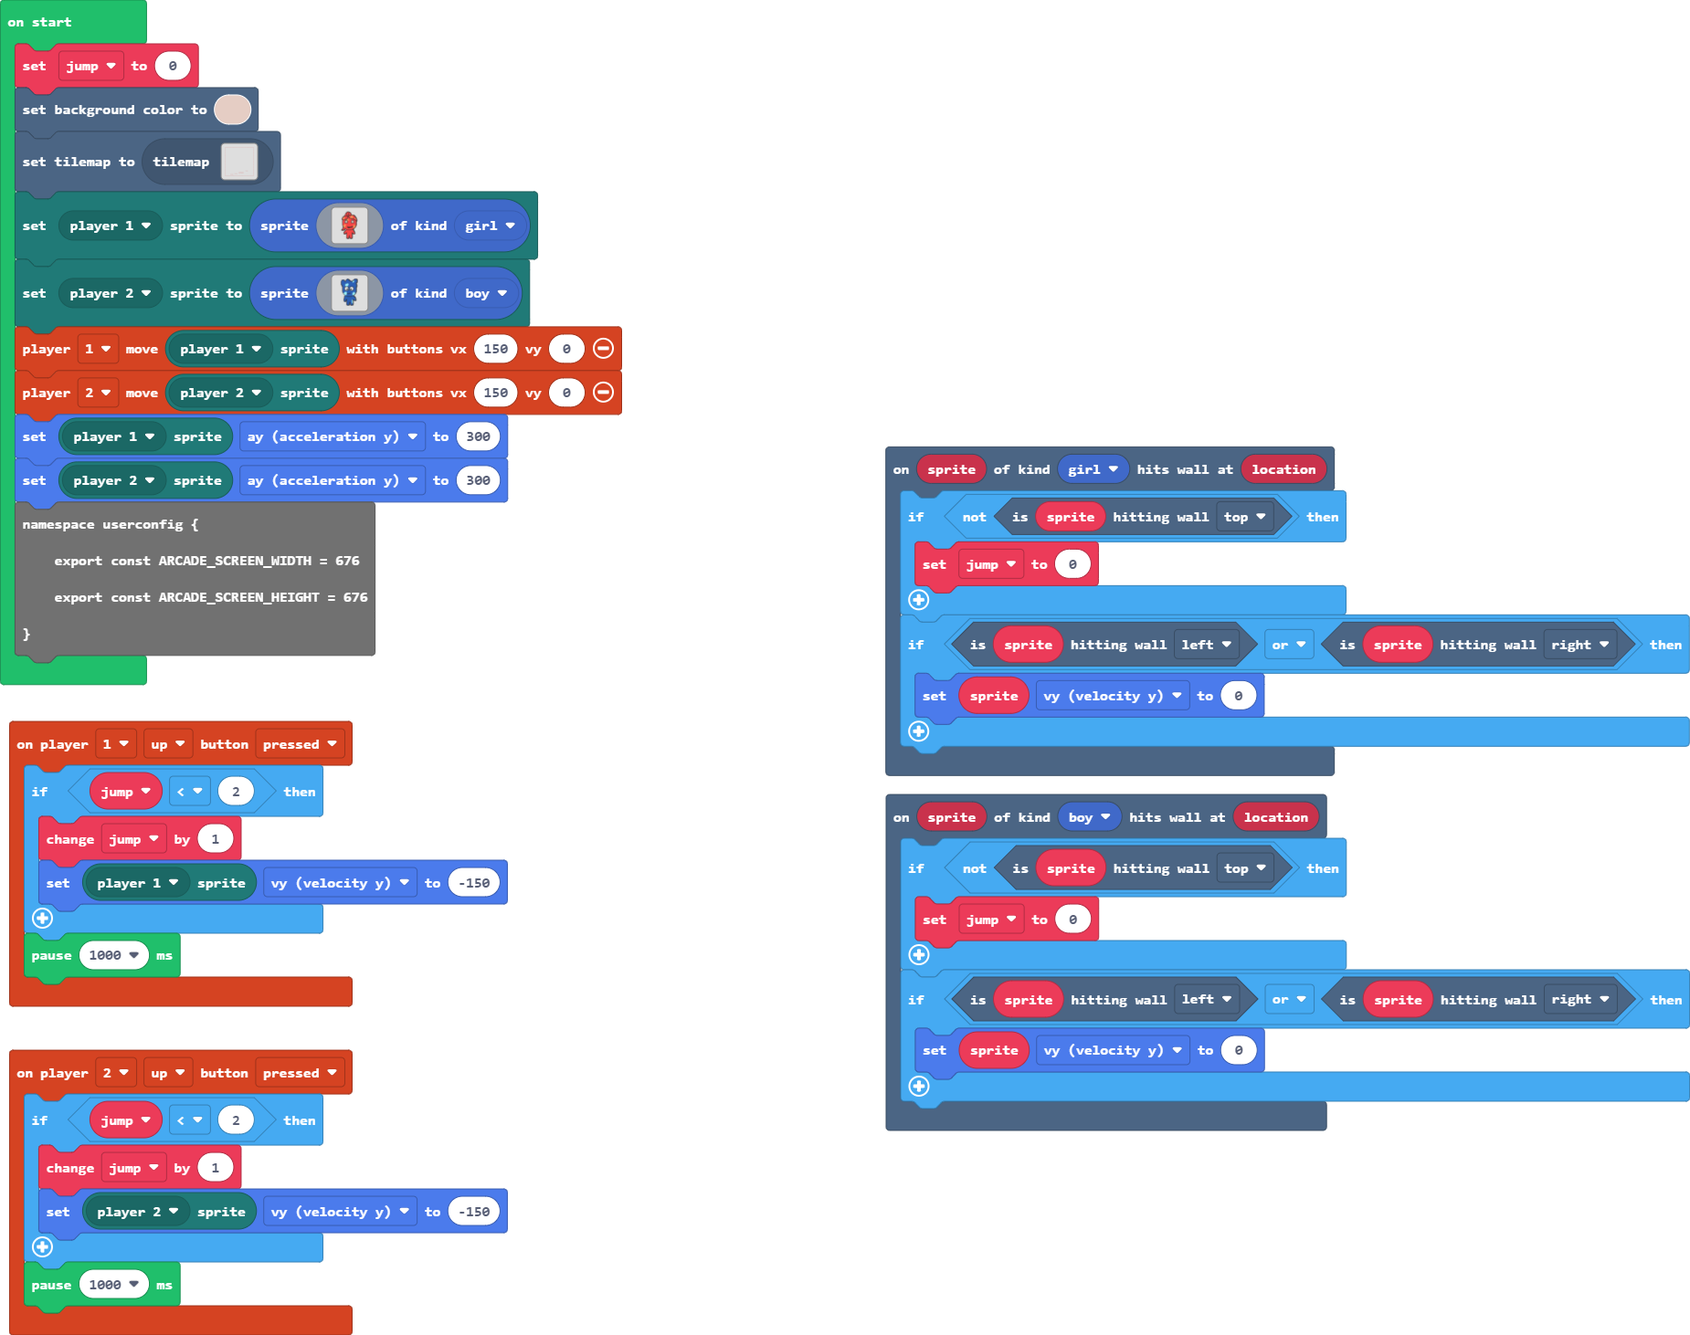
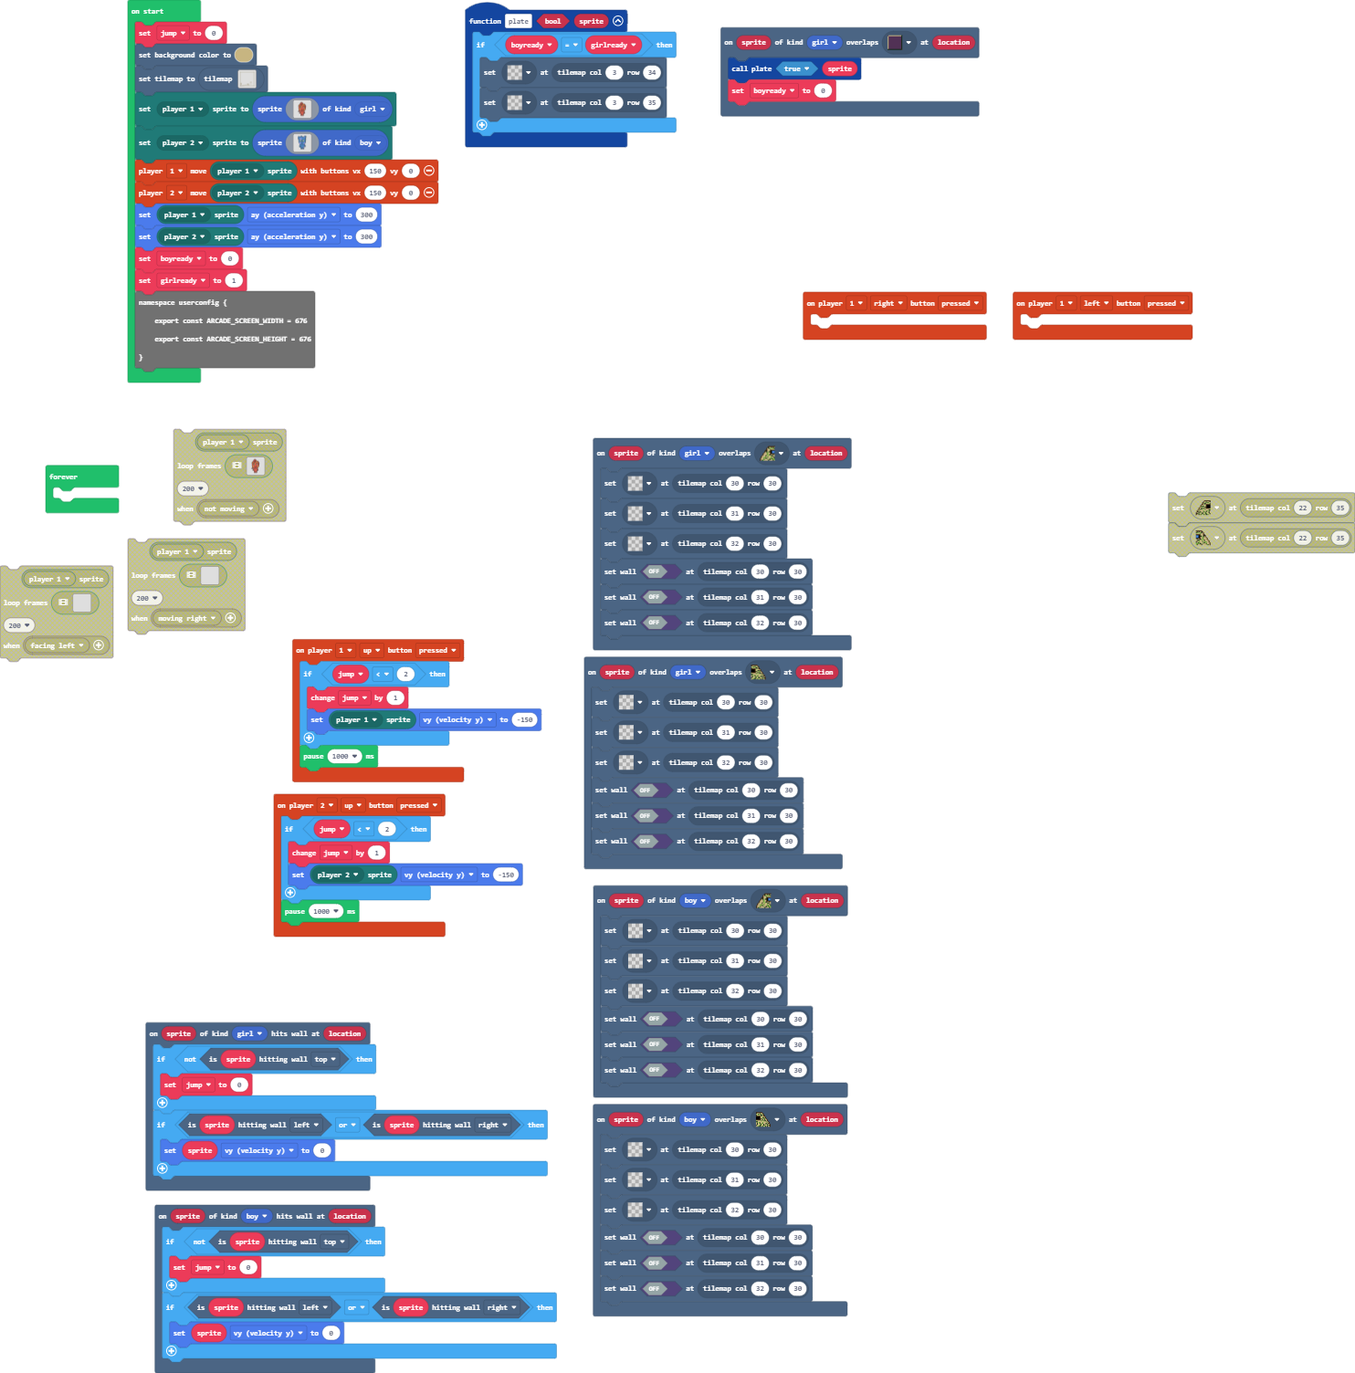
Update pxt.json, main.blocks, main.ts, tilemap.g.jres, tilemap.g.ts

diff --git a/tilemap.g.ts b/tilemap.g.ts
@@ -2,6 +2,16 @@
 namespace myTiles {
     //% fixedInstance jres blockIdentity=images._tile
     export const transparency16 = image.ofBuffer(hex``);
+    //% fixedInstance jres blockIdentity=images._tile
+    export const tile1 = image.ofBuffer(hex``);
+    //% fixedInstance jres blockIdentity=images._tile
+    export const tile6 = image.ofBuffer(hex``);
+    //% fixedInstance jres blockIdentity=images._tile
+    export const tile2 = image.ofBuffer(hex``);
+    //% fixedInstance jres blockIdentity=images._tile
+    export const tile3 = image.ofBuffer(hex``);
+    //% fixedInstance jres blockIdentity=images._tile
+    export const tile4 = image.ofBuffer(hex``);
 
     helpers._registerFactory("tilemap", function(name: string) {
         switch(helpers.stringTrim(name)) {
@@ -24,8 +34,113 @@ namespace myTiles {
 . . . . . . . . . . . . . . . . 
 . . . . . . . . . . . . . . . . 
 `, [myTiles.transparency16], TileScale.Sixteen);
+            case "level4":
+            case "level4":return tiles.createTilemap(hex`1000100000000000000000000000000000000000000000000000000000000000000000000000000000000000000000000000000000000000000000000000000000000000000000000000000000000000000000000000000000000000000000000000000000000000000000000000000000000000000000000000000000000000000000000000000000000000000000000000000000000000000000000000000000000000000000000000000000000000000000000000000000000000000000000000000000000000000000000000000000000000000000000000000000000000000000000000000000000000000000000000000000000000000000000000000000000000`, img`
+. . . . . . . . . . . . . . . . 
+. . . . . . . . . . . . . . . . 
+. . . . . . . . . . . . . . . . 
+. . . . . . . . . . . . . . . . 
+. . . . . . . . . . . . . . . . 
+. . . . . . . . . . . . . . . . 
+. . . . . . . . . . . . . . . . 
+. . . . . . . . . . . . . . . . 
+. . . . . . . . . . . . . . . . 
+. . . . . . . . . . . . . . . . 
+. . . . . . . . . . . . . . . . 
+. . . . . . . . . . . . . . . . 
+. . . . . . . . . . . . . . . . 
+. . . . . . . . . . . . . . . . 
+. . . . . . . . . . . . . . . . 
+. . . . . . . . . . . . . . . . 
+`, [myTiles.transparency16], TileScale.Sixteen);
+            case "level3":
+            case "level3":return tiles.createTilemap(hex`4000400003030303030303030303030303030303030303030303030303030303030303030303030303030303030300000000000000000000000000000000000000000000030000000000000000000000000000000000000000000000000000000000000000000000000000000003000000000000000000000000000000000000000000000300000000000000000000000000000000000000000000000000000000000000000000000000000000030000000000000000000000000000000000000000000003000000000000000000000000000000000000000000000000000000000000000000000000000000000300000000000000000000000000000000000000000000030000000000000000000000000000000000000000000000000000000000000000000000000000000003000000000000000000000000000000000000000000000300000000000000000000000000000000000000000000000000000000000000000000000000000000030000000000000000000000000000000000000000000003000000000000000000000000000000000000000000000000000000000000000000000000000000000300000000000000000000000000000000000000000000030000000000000000000000000000000000000000000000000000000000000000000000000000000003000000000000000000000000000000000000000000000300000000000000000000000000000000000000000000000000000000000000000000000000000000030000000000000000000000000000000000000000000003000000000000000000000000000000000000000000000000000000000000000000000000000000000300000000000000000000000000000000000000000000030000000000000000000000000000000000000000000000000000000000000000000000000000000003000000000000000000000000000000000000000000000300000000000000000000000000000000000000000000000000000000000000000000000000000000030000000000000000000000000000000000000000000003000000000000000000000000000000000000000000000000000000000000000000000000000000000300000000000000000000000000000000000000000000030000000000000000000000000000000000000000000000000000000000000000000000000000000003000000000000000000000000000000000000000000000300000000000000000000000000000000000000000000000000000000000000000000000000000000030000000000000000000000000000000000000000000003000000000000000000000000000000000000000000000000000000000000000000000000000000000300000000000000000000000000000000000000000000030000000000000000000000000000000000000000000000000000000000000000000000000000000003000000000000000000000000000000000000000000000300000000000000000000000000000000000000000000000000000000000000000000000000000000030000000000000000000000000000000000000000000003000000000000000000000000000000000000000000000000000000000000000000000000000000000300000000000000000000000000000000000000000000030000000000000000000000000000000000000000000000000000000000000000000000000000000003000000000000000000000000000000000000000000000300000000000000000000000000000000000000000000000000000000000000000000000000000000030000000000000000000000000000000000000000000003000000000000000000000000000000000000000000000000000000000000000000000000000000000300000000000000000000000000000000000000000000030000000000000000000000000000000000000000000000000000000000000000000000000000000003000000000000000000000000000000000000000000000300000000000000000000000000000000000000000000000000000000000000000000000000000000030000000000000000000000000000000000000000000003000000000000000000000000000000000000000000000000000000000000000000000000000000000300000000000000000000000000000000000000000000030000000000000000000000000000000000000000000000000000000000000000000000000000000003000000000000000000000000000000000000000000000300000000000000000000000000000000000000000000000000000000000000000000000000000000030000000000000000000000000000000000000000000003000000000000000000000000000000000000000000000000000000000000000000000000000000000300000000000000000000000000000000000000000000030000000000000000000000000000000000000000000000000000000000000000000000000000000003000000000000000000000000000000000000000000000300000000000000000000000000000000000000000000000000000000000000000000000000000000030000000000000000000000000000000000000000000003000000000000000000000000000000000000000000000000000000000300000003000000000000000300000000000000000000000000000000000000000000030000000000000000000000000000000000000000000000000000000000000000000000000000000003000000000000000000000000000000000000000000000300000000000000000000000000000000000000000000000000000000000000000000000000000000030000000000000000000000000000000000000000000003000000000000000000000000000000000000000000000000000000000000000000000000000000000300000000000000000000000000000000000000000000030000000000000000000000000000000000000000000000000000000000030303000000000000000003000000000000000000000000000000000000000000000300000000000000000000000000000000000000000001020000000000000000000000000000000000030000000000000000000000000000000000000000000003000000000000000000000000000000000000000303030303030300000000000000000000000000000300000000000000000000000000000000000000000000030000000000000000000000000000000000000003030303030303000000000000000000000000000003000000000000000000000000000000000000000000000300000000000000000000000000030303030000000000000000000000000000000000000000000000030000000000000000000000000000000000000000000003000000000000000303030300000000000000000000000000000000000000000000000000000000000300000000000000000000000000000000000000000000030000000000000000000000000000000000000000000000000000000000000000000000000000000003000000000000000000000000000000000000000000000303030303030303030303030303030303030303030303030303030303030303030303030303030303030000000000000000000000000000000000000000000000000000000000000000000000000000000000000000000000000000000000000000000000000000000000000000000000000000000000000000000000000000000000000000000000000000000000000000000000000000000000000000000000000000000000000000000000000000000000000000000000000000000000000000000000000000000000000000000000000000000000000000000000000000000000000000000000000000000000000000000000000000000000000000000000000000000000000000000000000000000000000000000000000000000000000000000000000000000000000000000000000000000000000000000000000000000000000000000000000000000000000000000000000000000000000000000000000000000000000000000000000000000000000000000000000000000000000000000000000000000000000000000000000000000000000000000000000000000000000000000000000000000000000000000000000000000000000000000000000000000000000000000000000000000000000000000000000000000000000000000000000000000000000000000000000000000000000000000000000000000000000000000000000000000000000000000000000000000000000000000000000000000000000000000000000000000000000000000000000000000000000000000000000000000000000000000000000000000000000000000000000000000000000000000000000000000000000000000000000000000000000000000000000000000000000000000000000000000000000000000000000000000000000000000000000000000000000000000000000000000000000000000000000000000000000000000000000000000000000000000000000000000000000000000000000000000000000000000000000000000000000000000000000000000000000000000000000000000000000000000000000000000000000000000000000000000000000000000000000000000000000000000000000000000000000000000000000000000000000000000000000000000000000000000000000000000000000000000000000000000000000000000000000000000000000000000000000000000000000000000000000000000000000000000000000000000000000000000000000000000000000000000000000000000000000000000000000000000000000000000000000000000000000000000000000000000000000000000000000000000000000000000000000000000000000000000000000000000000000000000000000000000000000000000000000000000000000000000000000000000000000000000000000000000000000000000000000000000000000000000000000000000000000000000000000000000000000000000000000000000000000000000000000000000000000000000000000000000000000000000000000000000000000000000000000000000000000000000000000000000000000000000000000000000000000000000000000000000000000000000000000000000000000000000000000000000000000000000000000000000000000000000000000000000000000000000000000000000000000000000000000000000000000000000000000000000000000000000000000000000000000000000000000000000000000000000000000000000000000000000000000000000000000000000000000000000000000000000000000000000000000000000000000000000000000000000000000000000000000000000000000000000000000000000000000000000000000000000000000000000000000000000000000000000000000000000000000000000000000000000000000000000000000000000000000000000000000000000000000000`, img`
+222222222222222222222222222222222222222222......................
+2........................................2......................
+2........................................2......................
+2........................................2......................
+2........................................2......................
+2........................................2......................
+2........................................2......................
+2........................................2......................
+2........................................2......................
+2........................................2......................
+2........................................2......................
+2........................................2......................
+2........................................2......................
+2........................................2......................
+2........................................2......................
+2........................................2......................
+2........................................2......................
+2........................................2......................
+2........................................2......................
+2........................................2......................
+2........................................2......................
+2........................................2......................
+2........................................2......................
+2........................................2......................
+2........................................2......................
+2........................................2......................
+2........................................2......................
+2........................................2......................
+2........................................2......................
+2........................................2......................
+2............................2...2.......2......................
+2........................................2......................
+2........................................2......................
+2........................................2......................
+2.............................222........2......................
+2........................................2......................
+2...................2222222..............2......................
+2...................2222222..............2......................
+2.............2222.......................2......................
+2.......2222.............................2......................
+2........................................2......................
+222222222222222222222222222222222222222222......................
+................................................................
+................................................................
+................................................................
+................................................................
+................................................................
+................................................................
+................................................................
+................................................................
+................................................................
+................................................................
+................................................................
+................................................................
+................................................................
+................................................................
+................................................................
+................................................................
+................................................................
+................................................................
+................................................................
+................................................................
+................................................................
+................................................................
+`, [myTiles.transparency16,myTiles.tile1,myTiles.tile6,sprites.dungeon.floorLight0], TileScale.Sixteen);
+            case "level5":
+            case "level5":return tiles.createTilemap(hex`1000100000000000000000000000000000000000000000000000000000000000000000000000000000000000000000000000000000000000000000000000000000000000000000000000000000000000000000000000000000000000000000000000000000000000000000000000000000000000000000000000000000000000000000000000000000000000000000000000000000000000000000000000000000000000000000000000000000000000000000000000000000000000000000000000000000000000000000000000000000000000000000000000000000000000000000000000000000000000000000000000000000000000000000000000000000000000`, img`
+. . . . . . . . . . . . . . . . 
+. . . . . . . . . . . . . . . . 
+. . . . . . . . . . . . . . . . 
+. . . . . . . . . . . . . . . . 
+. . . . . . . . . . . . . . . . 
+. . . . . . . . . . . . . . . . 
+. . . . . . . . . . . . . . . . 
+. . . . . . . . . . . . . . . . 
+. . . . . . . . . . . . . . . . 
+. . . . . . . . . . . . . . . . 
+. . . . . . . . . . . . . . . . 
+. . . . . . . . . . . . . . . . 
+. . . . . . . . . . . . . . . . 
+. . . . . . . . . . . . . . . . 
+. . . . . . . . . . . . . . . . 
+. . . . . . . . . . . . . . . . 
+`, [myTiles.transparency16], TileScale.Sixteen);
             case "ExampleLVL":
[2 lines of base64/hex data omitted]
 222222222222222222222222222222222222222222
 2........................................2
 2........................................2
@@ -56,7 +171,7 @@ namespace myTiles {
 2........................................2
 2........................................2
 2........................................2
-2........................................2
+2............................22222.......2
 2........................................2
 2........................................2
 2........................................2
@@ -68,7 +183,7 @@ namespace myTiles {
 2.......2222.............................2
 2........................................2
 222222222222222222222222222222222222222222
-`, [myTiles.transparency16,sprites.dungeon.floorLight0], TileScale.Sixteen);
+`, [myTiles.transparency16,sprites.dungeon.floorLight0,myTiles.tile1,myTiles.tile6,sprites.dungeon.floorLightMoss,sprites.dungeon.floorDark2,sprites.dungeon.floorLight2,sprites.dungeon.floorDark0], TileScale.Sixteen);
         }
         return null;
     })
@@ -76,6 +191,16 @@ namespace myTiles {
     helpers._registerFactory("tile", function(name: string) {
         switch(helpers.stringTrim(name)) {
             case "transparency16":return transparency16;
+            case "myTile":
+            case "tile1":return tile1;
+            case "myTile4":
+            case "tile6":return tile6;
+            case "myTile0":
+            case "tile2":return tile2;
+            case "myTile1":
+            case "tile3":return tile3;
+            case "myTile2":
+            case "tile4":return tile4;
         }
         return null;
     })

diff --git a/main.ts b/main.ts
@@ -2,6 +2,18 @@ namespace SpriteKind {
     export const girl = SpriteKind.create()
     export const boy = SpriteKind.create()
 }
+scene.onOverlapTile(SpriteKind.girl, sprites.dungeon.floorDark2, function (sprite, location) {
+    plate(true, sprite)
+    boyready = 0
+})
+scene.onOverlapTile(SpriteKind.girl, assets.tile`myTile4`, function (sprite, location) {
+    tiles.setTileAt(tiles.getTileLocation(30, 30), assets.tile`transparency16`)
+    tiles.setTileAt(tiles.getTileLocation(31, 30), assets.tile`transparency16`)
+    tiles.setTileAt(tiles.getTileLocation(32, 30), assets.tile`transparency16`)
+    tiles.setWallAt(tiles.getTileLocation(30, 30), false)
+    tiles.setWallAt(tiles.getTileLocation(31, 30), false)
+    tiles.setWallAt(tiles.getTileLocation(32, 30), false)
+})
 controller.player1.onButtonEvent(ControllerButton.Up, ControllerButtonEvent.Pressed, function () {
     if (jump < 2) {
         jump += 1
@@ -9,6 +21,20 @@ controller.player1.onButtonEvent(ControllerButton.Up, ControllerButtonEvent.Pres
     }
     pause(1000)
 })
+scene.onOverlapTile(SpriteKind.girl, assets.tile`myTile`, function (sprite, location) {
+    tiles.setTileAt(tiles.getTileLocation(30, 30), assets.tile`transparency16`)
+    tiles.setTileAt(tiles.getTileLocation(31, 30), assets.tile`transparency16`)
+    tiles.setTileAt(tiles.getTileLocation(32, 30), assets.tile`transparency16`)
+    tiles.setWallAt(tiles.getTileLocation(30, 30), false)
+    tiles.setWallAt(tiles.getTileLocation(31, 30), false)
+    tiles.setWallAt(tiles.getTileLocation(32, 30), false)
+})
+function plate (bool: boolean, sprite: Sprite) {
+    if (boyready == girlready) {
+        tiles.setTileAt(tiles.getTileLocation(3, 34), assets.tile`transparency16`)
+        tiles.setTileAt(tiles.getTileLocation(3, 35), assets.tile`transparency16`)
+    }
+}
 controller.player2.onButtonEvent(ControllerButton.Up, ControllerButtonEvent.Pressed, function () {
     if (jump < 2) {
         jump += 1
@@ -24,6 +50,17 @@ scene.onHitWall(SpriteKind.girl, function (sprite, location) {
         sprite.vy = 0
     }
 })
+scene.onOverlapTile(SpriteKind.boy, assets.tile`myTile`, function (sprite, location) {
+    tiles.setTileAt(tiles.getTileLocation(30, 30), assets.tile`transparency16`)
+    tiles.setTileAt(tiles.getTileLocation(31, 30), assets.tile`transparency16`)
+    tiles.setTileAt(tiles.getTileLocation(32, 30), assets.tile`transparency16`)
+    tiles.setWallAt(tiles.getTileLocation(30, 30), false)
+    tiles.setWallAt(tiles.getTileLocation(31, 30), false)
+    tiles.setWallAt(tiles.getTileLocation(32, 30), false)
+})
+controller.player1.onButtonEvent(ControllerButton.Right, ControllerButtonEvent.Pressed, function () {
+	
+})
 scene.onHitWall(SpriteKind.boy, function (sprite, location) {
     if (!(sprite.isHittingTile(CollisionDirection.Top))) {
         jump = 0
@@ -32,6 +69,19 @@ scene.onHitWall(SpriteKind.boy, function (sprite, location) {
         sprite.vy = 0
     }
 })
+scene.onOverlapTile(SpriteKind.boy, assets.tile`myTile4`, function (sprite, location) {
+    tiles.setTileAt(tiles.getTileLocation(30, 30), assets.tile`transparency16`)
+    tiles.setTileAt(tiles.getTileLocation(31, 30), assets.tile`transparency16`)
+    tiles.setTileAt(tiles.getTileLocation(32, 30), assets.tile`transparency16`)
+    tiles.setWallAt(tiles.getTileLocation(30, 30), false)
+    tiles.setWallAt(tiles.getTileLocation(31, 30), false)
+    tiles.setWallAt(tiles.getTileLocation(32, 30), false)
+})
+controller.player1.onButtonEvent(ControllerButton.Left, ControllerButtonEvent.Pressed, function () {
+	
+})
+let girlready = 0
+let boyready = 0
 let jump = 0
 jump = 0
 scene.setBackgroundColor(13)
@@ -42,7 +92,12 @@ controller.player1.moveSprite(mp.getPlayerSprite(mp.playerSelector(mp.PlayerNumb
 controller.player2.moveSprite(mp.getPlayerSprite(mp.playerSelector(mp.PlayerNumber.Two)), 150, 0)
 mp.getPlayerSprite(mp.playerSelector(mp.PlayerNumber.One)).ay = 300
 mp.getPlayerSprite(mp.playerSelector(mp.PlayerNumber.Two)).ay = 300
+boyready = 0
+girlready = 1
 namespace userconfig {
     export const ARCADE_SCREEN_WIDTH = 676
     export const ARCADE_SCREEN_HEIGHT = 676
 }
+forever(function () {
+	
+})
